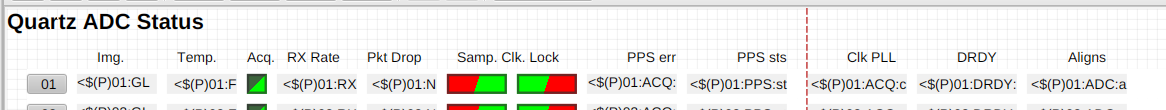
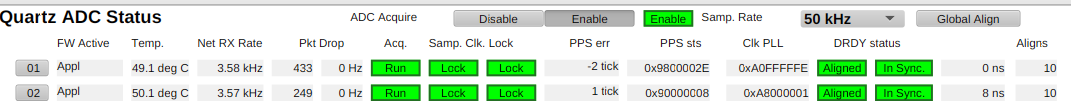
update

diff --git a/interim-acquire.md b/interim-acquire.md
@@ -7,9 +7,10 @@ Conditions necessary for a correct acquisition.
 - Ensure CCCR Loaded
 - Desired sample rate selected
 - Check System status (From "Quartz ADC Status" screen)
-    - Active firmware image: `Appl` (`Img.` column)
+    - Active firmware image: `Appl` (`FW Active` column)
+    - Acquiring (`Acq.` column)
     - PPS Locked.  (`Samp. Clk. Lock` columns)
-    - DRDY ok (`DRDY` column)
+    - DRDY ok (`DRDY status` columns)
     - Network packet drop rates zero (`Pkt Drop` column)
 
 ![Quartz ADC Status](adc-status.png)
@@ -22,6 +23,7 @@ Conditions necessary for a correct acquisition.
 
 1. Disable Sampling if monitoring.  (from Main screen and others)
 1. Launch `atf-acquire` on `DAQS` host.
+    - `ssh 192.168.83.100`
     - Will run until acquisition completes.
     - Will print "60 seconds elapsed"
 1. Note "Last recording name" on `Acq. Recording` Monitor or Expert screens.
@@ -37,6 +39,8 @@ While acquisition is in-progress, observe that:
 - On `ADC Status` screen.
     - PPS Locked
     _ DRDY ok
+
+![Quartz Acquisition Status](acq-status.png)
 
 ## 5. Stop Acquire
 
@@ -72,9 +76,29 @@ If requested.
 1. Click on on `Open` or `Mount`.
 1. Copy the appropriate `.uff` file.
     - This may take a long time.
-1. Through the `Disks & Devices` menu, `Eject` the USB storage device.
+1. Through the `Disks & Devices` menu, `Eject` or `Safely Remove` the USB storage device.
     - This may also take a long time.
     - __Do not disconnect__ USB storage until notified that it is safe to do so,
       or until the device has disappeared from the `Disks & Devices` menu.
 
-![Disks & Devices](disk-device.png)
+![Disks & Devices Present](disks-present.png)
+
+![Disks & Devices Empty](disk-device.png)
+
+## Example Output
+
+Beginning of an acquisition.
+
+![Acquisition start](acq1.png)
+
+Completed acquisition.
+
+![Acquisition end](acq-complete.png)
+
+Initiate conversion.
+
+![Convert start](convert1.png)
+
+Conversion complete
+
+![Convert end](convert2.png)

diff --git a/notes.md b/notes.md
@@ -1,0 +1,9 @@
+# Notes
+
+Workstations have KDE installed.
+Select applications from menu in lower left corner,
+or Press `Alt+F2` and enter application name.
+
+- Terminal Emulator - `konsole`
+- Text editor - `kwrite` or `kate`
+- Screen capture - `spectacle`

diff --git a/README.md b/README.md
@@ -1,0 +1,3 @@
+# ATF SEC DAQ Procedures
+
+- [Data Recording](interim-acquire.md)
